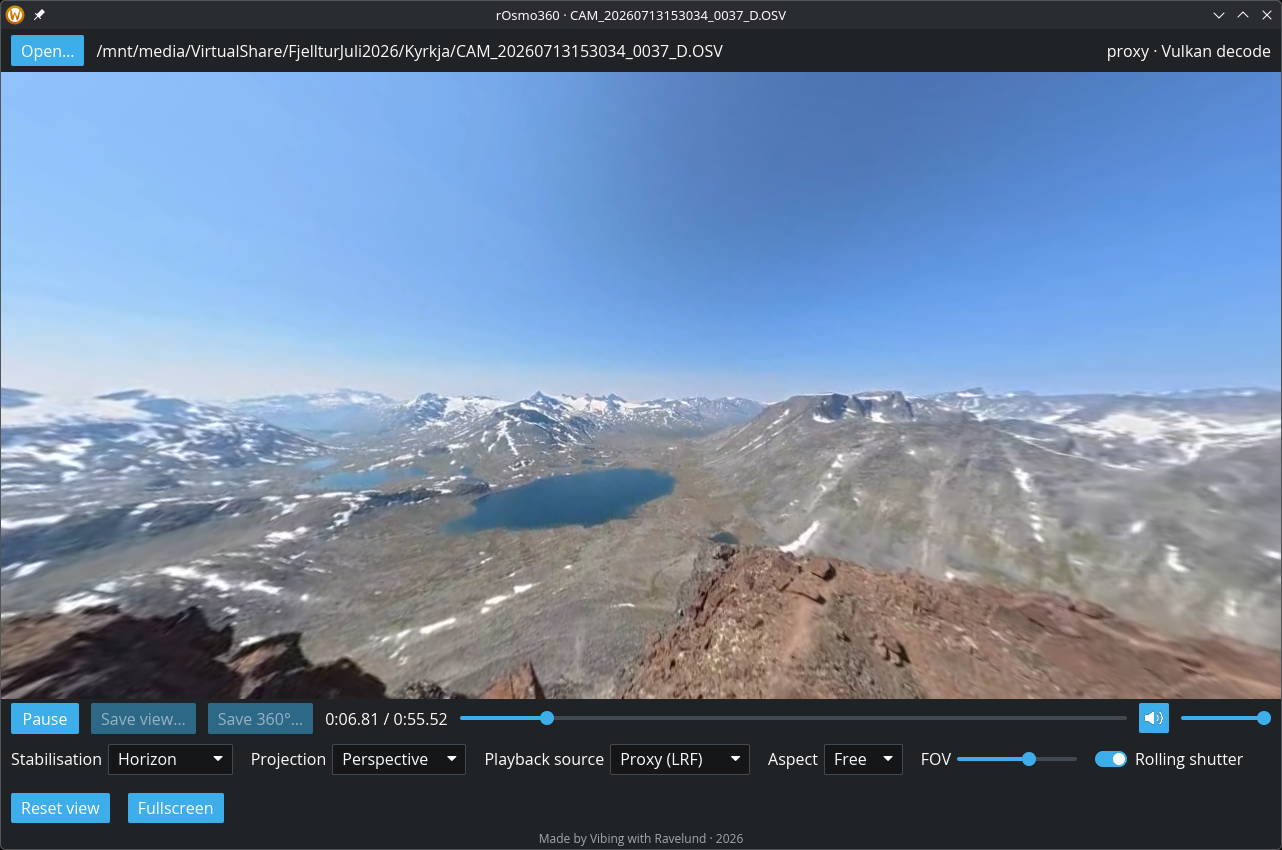
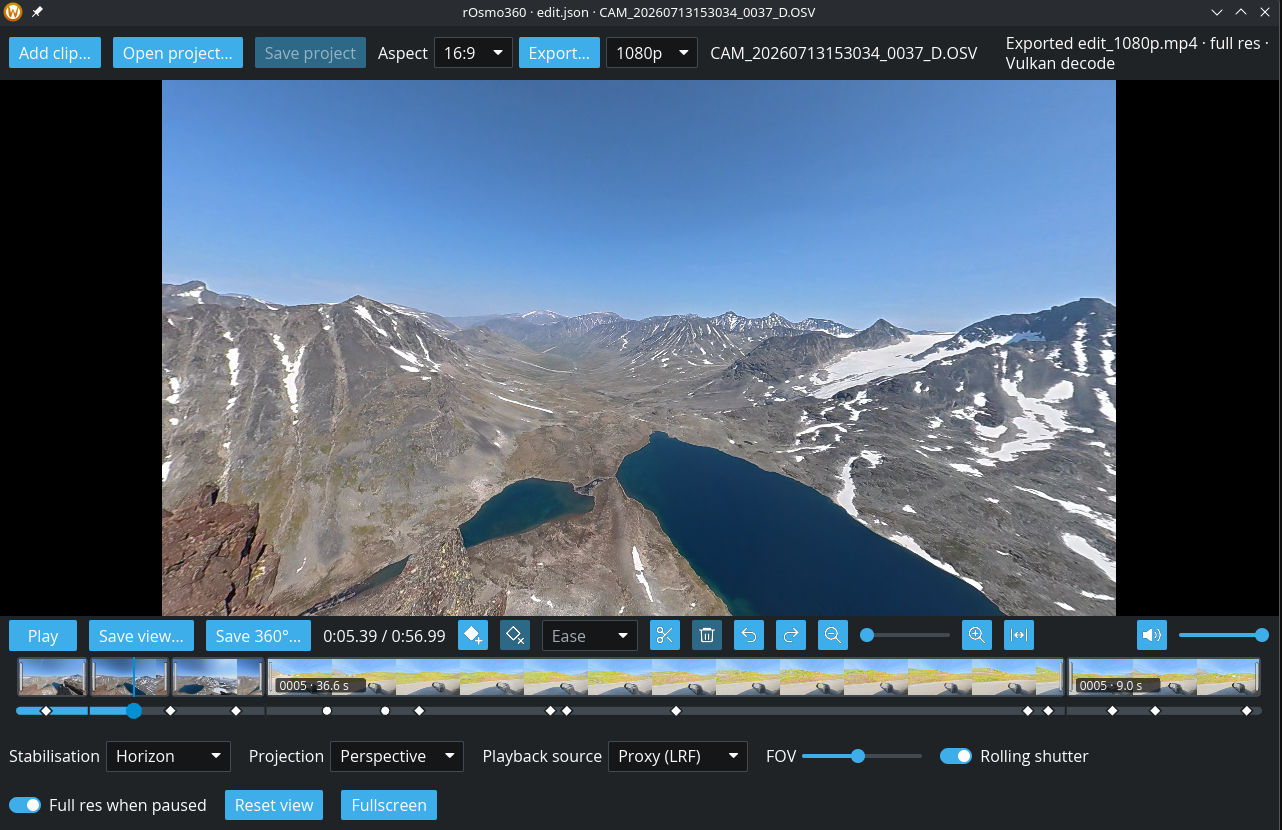
README: the editor, and a screenshot of it
The README described a player with some command-line editing. It now
covers the timeline editor (cuts, keyframes with ease, stabilisation per
cut, projects, GPU export from the player), and the screenshot shows the
timeline with three clips' cuts, thumbnails and keyframes. The roadmap
drops keyframing in the player (done) and adds crossfades and 360°
metadata.

diff --git a/README.md b/README.md
@@ -1,16 +1,18 @@
 # rOsmo360
 
-A 360° video player for **DJI Osmo 360** footage, written in Rust. It plays the camera's `.OSV` files directly: it stitches the two fisheye lenses, stabilises with the camera's gyro data and lets you look around freely, without going through DJI Studio.
+A 360° video player and editor for **DJI Osmo 360** footage, written in Rust. It plays the camera's `.OSV` files directly: it stitches the two fisheye lenses, stabilises with the camera's gyro data and lets you look around freely, without going through DJI Studio. Then you can cut clips together on a timeline, keyframe the camera's view, and export a framed video.
 
-![rOsmo360 playing a clip from a mountain hike, looking out over a lake and glaciers](docs/screenshot.png)
+![rOsmo360 editing a mountain hike: the view over a lake and glaciers, with cuts from three clips on the timeline below, their thumbnails and keyframes](docs/screenshot.png)
 
 Licensed under [MIT](LICENSE-MIT) or [Apache-2.0](LICENSE-APACHE), at your option.
 
 ## Why
 
-I vibed this tool primarily for Linux, since I couldn't find anything close to DJI Studio there. The goal of rOsmo360 is to bring most of DJI Studio's playback and some limited editing functionality to Linux users. It isn't Linux-exclusive, though: Windows and macOS support is in the pipeline.
+I vibed this tool primarily for Linux, since I couldn't find anything close to DJI Studio there. The goal of rOsmo360 is to bring most of DJI Studio's playback and editing to Linux users. It isn't Linux-exclusive, though: Windows and macOS support is in the pipeline.
 
 ## Features
+
+### Playing
 
 - **Stitching** with DJI's own calibration, read from each clip. Per frame it also:
   - evens out the two lenses' exposure along the seam;
@@ -24,20 +26,28 @@ I vibed this tool primarily for Linux, since I couldn't find anything close to D
 - **Hardware decoding** on any GPU vendor: Vulkan Video, VA-API or CUDA, with a software fallback.
 - **Sound**, in sync with the picture, with mute and volume.
 - **Save photos** of a paused frame: the view as framed, at 3840 px on the long side, or the whole 360° sphere at 7680 × 3840.
-- **Aspect lock** (16:9, 9:16, 4:3, 1:1, 2:1) for framing shots; saved views take the same shape.
-- **Looks native**: follows your desktop's colour theme (KDE, GNOME, Windows, macOS), including live changes.
+- **Aspect lock** (16:9, 9:16, 4:3, 1:1, 2:1) for framing shots; saved views and exports take the same shape.
+- **Looks native**: follows your desktop's colour theme (KDE, GNOME, Windows, macOS), including live changes. Your settings are remembered between runs.
 
-Command-line tools can also:
+### Editing
 
-- **Export framed video**: a fixed view or keyframed camera moves (pans, zooms, a morph into little planet), in any shape such as 9:16, with sound.
-- **Skim clips**: contact sheets of stitched frames, and a per-second summary of the camera's motion and the sound level.
+- **Timeline** of cuts from one or more clips: split, trim, move and delete them, with undo and redo. Each cut shows thumbnails of its footage, and the timeline zooms in for fine work.
+- **Keyframes** for the view: where it looks (yaw, pitch, roll), the zoom, and the projection, so a shot can pan, zoom or morph into a little planet. Each keyframe eases into the next smoothly, at a steady speed, or holds and then cuts.
+- **Stabilisation per cut**: one cut world-locked, the next following the horizon.
+- **Projects**: save the edit and open it again later.
+- **Export** the edit to MP4 with its sound, from 720p to 4K, in the aspect lock's shape. It renders on the GPU, about four times faster than the CPU (21 frames a second at 1080p on an RTX 3090).
+
+### Command line
+
+- **Export** a clip with a fixed view or keyframed camera moves, or a whole project, in any shape such as 9:16.
+- **Skim clips**: contact sheets of stitched frames (of a clip, or of a project with a row per cut), and a per-second summary of the camera's motion and the sound level.
 - Stitch single frames or whole clips to equirectangular images and MP4 video.
 
 ## Requirements
 
 - A DJI Osmo 360 clip (`.OSV`). Keep the `.LRF` proxy file next to it for the smoothest playback.
 - `ffmpeg` and `ffprobe` on your `PATH`.
-- A GPU with Vulkan support (Linux) and up-to-date drivers.
+- A GPU with Vulkan support (Linux) and up-to-date drivers. It plays, decodes and exports.
 - On Linux, ALSA for sound (`alsa-lib`, or `libasound2-dev` on Debian/Ubuntu). PipeWire and PulseAudio work through it.
 - To build: Rust 1.88 or newer.
 
@@ -155,9 +165,10 @@ rosmo360 scan clip.OSV > scan.csv           # per second: heading, tilt, turning
 
 ## Roadmap
 
+- Crossfades between cuts.
+- 360° metadata on equirectangular exports, so YouTube and VR players show them as 360° video.
 - Smooth full-resolution playback on modest hardware (zero-copy decoding).
 - Windows and macOS builds.
-- Keyframing in the player, sharing the reframe files the command line uses.
 - D-Log M colour support.
 
 ## License
